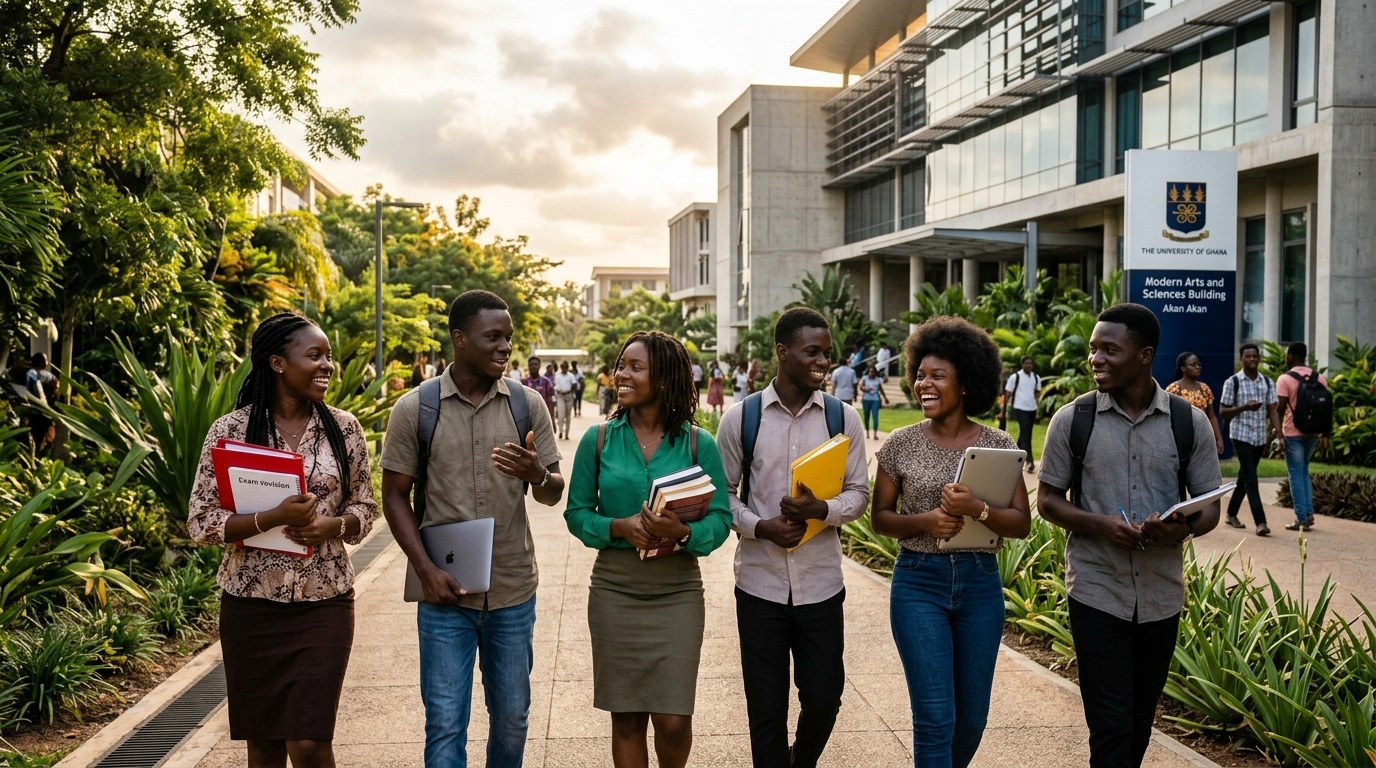
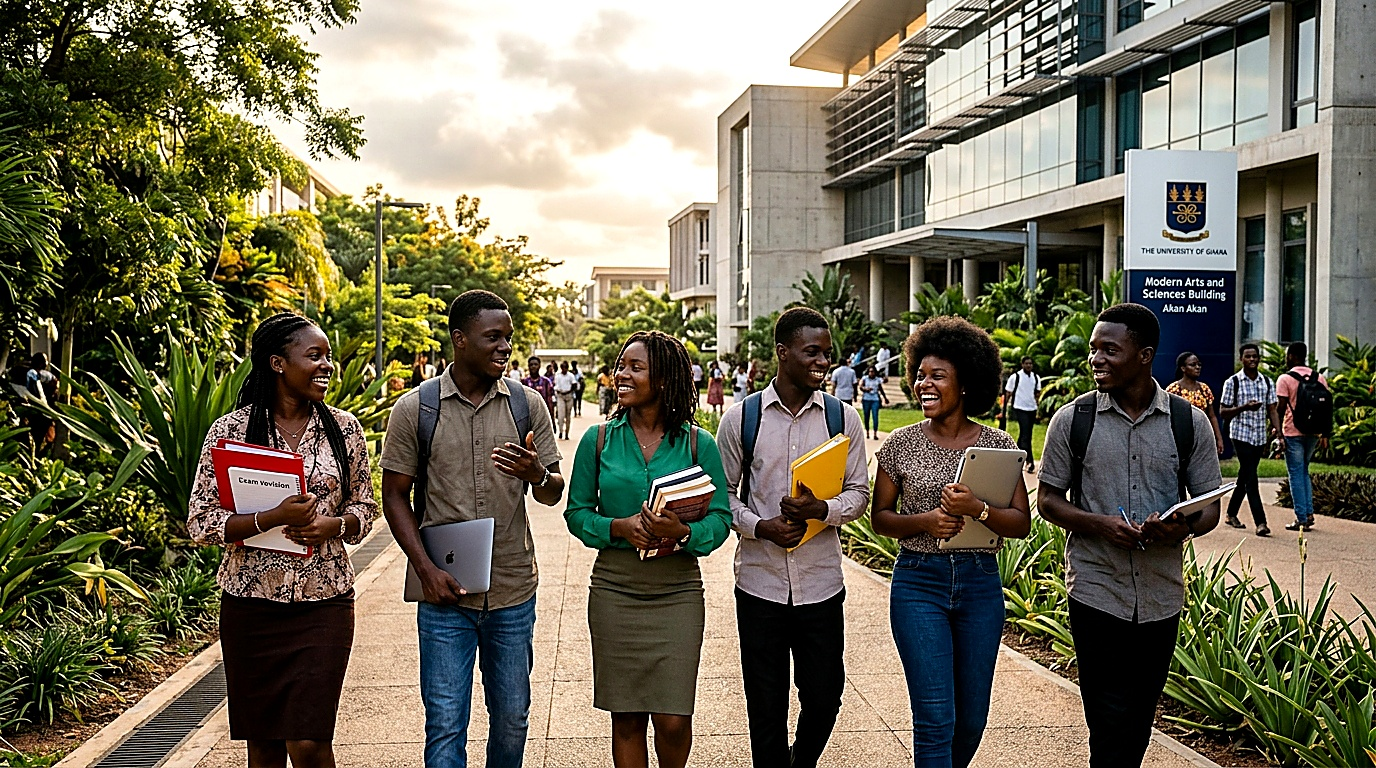
fix(ui): clarte et nettete de l image d arriere plan, contrastes eleves et couleurs vives sur le hero

Changed region(s): [[0.0, 0.0, 1.0, 1.0], [0.5938, 0.0, 0.625, 0.0312], [0.5625, 0.0625, 0.5938, 0.0938]]

diff --git a/ArchivEx/templates/academics/home.html b/ArchivEx/templates/academics/home.html
@@ -72,224 +72,114 @@ document.addEventListener('DOMContentLoaded', function() {
         <!-- LEFT COLUMN: EDITORIAL CONTENT & ACTIONS -->
         <div class="lg:col-span-6 text-center lg:text-left">
             <!-- Top Badge Pill -->
-            <div class="inline-flex items-center space-x-2.5 px-4 py-1.5 rounded-full bg-blue-500/20 border border-blue-400/40 text-blue-200 text-xs font-black mb-5 backdrop-blur-md shadow-inner">
-                <span class="w-2 h-2 rounded-full bg-cyan-400 shadow-[0_0_8px_#22d3ee] animate-pulse"></span>
-                <span>ArchivEx{% if current_school %} · {{ current_school.name }}{% else %} · Plateforme Académique des Épreuves{% endif %}</span>
+            <div class="inline-flex items-center space-x-2.5 px-4 py-1.5 rounded-full bg-blue-600/30 border border-blue-400/50 text-cyan-200 text-xs font-black mb-5 backdrop-blur-md shadow-md">
+                <span class="w-2.5 h-2.5 rounded-full bg-cyan-400 shadow-[0_0_10px_#22d3ee] animate-pulse"></span>
+                <span>ArchivEx{% if current_school %} · {{ current_school.name }}{% else %} · Banque Nationale d'Épreuves & Examens{% endif %}</span>
             </div>
 
-            <!-- Main Heading (Style univservices.bj) -->
-            <h1 class="text-3xl sm:text-5xl lg:text-6xl font-black tracking-tight text-white mb-4 leading-[1.05] drop-shadow-md">
+            <!-- Main Heading (Ultra-Sharp, Vivid Accent) -->
+            <h1 class="text-3xl sm:text-5xl lg:text-6xl font-black tracking-tight text-white mb-4 leading-[1.05] drop-shadow-[0_4px_16px_rgba(0,0,0,0.7)]">
                 Toutes vos épreuves,<br>
-                <span class="text-transparent bg-clip-text bg-gradient-to-r from-blue-300 via-sky-200 to-indigo-200">une seule plateforme.</span>
+                <span class="text-[#38BDF8] drop-shadow-[0_4px_25px_rgba(56,189,248,0.6)]">une seule plateforme.</span>
             </h1>
 
-            <!-- Subtitle -->
-            <p class="max-w-xl mx-auto lg:mx-0 text-sm sm:text-base text-slate-200 mb-6 leading-relaxed font-semibold drop-shadow-sm">
+            <!-- Subtitle (Pure High-Contrast White) -->
+            <p class="max-w-xl mx-auto lg:mx-0 text-sm sm:text-base text-white font-semibold mb-7 leading-relaxed drop-shadow-[0_2px_8px_rgba(0,0,0,0.8)]">
                 Centralisez vos anciennes épreuves, corrigés détaillés et fiches de synthèse pour réussir sereinement chaque semestre dans vos universités et grandes écoles.
             </p>
 
-            <!-- MOBILE LAPTOP MOCKUP (Visible only on mobile/tablet) -->
-            <div class="flex lg:hidden justify-center mb-8">
-                <div class="relative w-full max-w-[560px] mx-auto pt-2 pb-2">
-                    <div class="relative mx-auto border-[8px] border-[#1E293B] rounded-t-2xl bg-[#1E293B] shadow-2xl overflow-hidden max-w-[500px]">
-                        <div class="bg-slate-50 text-slate-800 text-[11px] aspect-[16/10] overflow-hidden flex flex-col select-none">
-                            <!-- Screen Top Navbar -->
-                            <div class="bg-white border-b border-slate-200 px-3 py-1.5 flex items-center justify-between shrink-0">
-                                <div class="flex items-center space-x-2">
-                                    <div class="w-5 h-5 rounded-lg bg-[#071A49] flex items-center justify-center text-[10px] text-white font-black">A</div>
-                                    <span class="font-black text-[#071A49] text-[11px]">Archiv<span class="text-[#2563EB]">Ex</span></span>
-                                </div>
-                                <div class="bg-slate-100 rounded-lg px-2 py-0.5 flex items-center space-x-1.5 text-[9px] text-slate-600 font-medium w-44">
-                                    <i class="fa-solid fa-magnifying-glass text-[8px] text-slate-400"></i>
-                                    <span class="truncate">Rechercher une épreuve...</span>
-                                </div>
-                                <div class="flex items-center space-x-1.5">
-                                    <div class="w-5 h-5 rounded-full bg-blue-100 text-[#2563EB] flex items-center justify-center text-[9px] font-black">É</div>
-                                </div>
-                            </div>
-
-                            <!-- Screen Body -->
-                            <div class="flex-grow flex overflow-hidden">
-                                <!-- Sidebar -->
-                                <div class="w-28 bg-white border-r border-slate-200 p-2 space-y-1 shrink-0 text-[9px]">
-                                    <div class="bg-blue-50 text-[#2563EB] font-black p-1.5 rounded-lg flex items-center space-x-1.5">
-                                        <i class="fa-solid fa-house text-[9px]"></i>
-                                        <span class="truncate">Accueil</span>
-                                    </div>
-                                    <div class="text-slate-700 font-bold p-1.5 rounded-lg flex items-center space-x-1.5">
-                                        <i class="fa-solid fa-book-open text-[9px] text-slate-400"></i>
-                                        <span class="truncate">Matières</span>
-                                    </div>
-                                    <div class="text-slate-700 font-bold p-1.5 rounded-lg flex items-center space-x-1.5">
-                                        <i class="fa-solid fa-id-card text-[9px] text-slate-400"></i>
-                                        <span class="truncate">Pass</span>
-                                    </div>
-                                </div>
-
-                                <!-- Main Content -->
-                                <div class="flex-grow p-2.5 bg-slate-50 overflow-hidden">
-                                    <div class="mb-2">
-                                        <h4 class="font-black text-[#071A49] text-xs leading-tight">Espace étudiant</h4>
-                                        <p class="text-[9px] text-slate-600 font-semibold">Toutes vos épreuves classées.</p>
-                                    </div>
-
-                                    <!-- Mini Stat Cards -->
-                                    <div class="grid grid-cols-3 gap-1.5 mb-2">
-                                        <div class="bg-white p-1.5 rounded-lg border border-slate-200 shadow-2xs flex items-center space-x-1.5">
-                                            <div class="w-5 h-5 rounded bg-blue-100 text-[#2563EB] flex items-center justify-center font-black text-[9px]">EP</div>
-                                            <div>
-                                                <span class="font-black text-xs text-[#071A49] block leading-none">{{ exams_count|default:"0" }}</span>
-                                                <span class="text-[7px] text-slate-600 font-bold block">Épreuves</span>
-                                            </div>
-                                        </div>
-                                        <div class="bg-white p-1.5 rounded-lg border border-slate-200 shadow-2xs flex items-center space-x-1.5">
-                                            <div class="w-5 h-5 rounded bg-amber-100 text-amber-800 flex items-center justify-center font-black text-[9px]">UE</div>
-                                            <div>
-                                                <span class="font-black text-xs text-[#071A49] block leading-none">{{ subjects_count|default:"0" }}</span>
-                                                <span class="text-[7px] text-slate-600 font-bold block">Matières</span>
-                                            </div>
-                                        </div>
-                                        <div class="bg-white p-1.5 rounded-lg border border-slate-200 shadow-2xs flex items-center space-x-1.5">
-                                            <div class="w-5 h-5 rounded bg-emerald-100 text-emerald-800 flex items-center justify-center font-black text-[9px]">OK</div>
-                                            <div>
-                                                <span class="font-black text-xs text-emerald-800 block leading-none">100%</span>
-                                                <span class="text-[7px] text-slate-600 font-bold block">Conforme</span>
-                                            </div>
-                                        </div>
-                                    </div>
-
-                                    <!-- Cards row -->
-                                    <div class="grid grid-cols-3 gap-1.5">
-                                        <div class="bg-white p-2 rounded-lg border border-slate-200 shadow-2xs space-y-1">
-                                            <div class="flex items-center justify-between">
-                                                <i class="fa-solid fa-file-lines text-slate-500 text-[9px]"></i>
-                                                <span class="text-[7px] font-black bg-amber-500 text-white px-1.5 py-0.2 rounded">Premium</span>
-                                            </div>
-                                            <p class="font-black text-[#071A49] text-[9px] leading-tight truncate">Base de données</p>
-                                            <p class="text-[7px] text-slate-600 font-semibold">Licence • S4</p>
-                                        </div>
-
-                                        <div class="bg-white p-2 rounded-lg border border-slate-200 shadow-2xs space-y-1">
-                                            <div class="flex items-center justify-between">
-                                                <i class="fa-solid fa-file-lines text-slate-500 text-[9px]"></i>
-                                                <span class="text-[7px] font-black bg-emerald-600 text-white px-1.5 py-0.2 rounded">Gratuit</span>
-                                            </div>
-                                            <p class="font-black text-[#071A49] text-[9px] leading-tight truncate">Algorithmique</p>
-                                            <p class="text-[7px] text-slate-600 font-semibold">Licence • S3</p>
-                                        </div>
-
-                                        <div class="bg-white p-2 rounded-lg border border-slate-200 shadow-2xs space-y-1">
-                                            <div class="flex items-center justify-between">
-                                                <i class="fa-solid fa-book-open text-slate-500 text-[9px]"></i>
-                                                <span class="text-[7px] font-black bg-blue-600 text-white px-1.5 py-0.2 rounded">Résumé</span>
-                                            </div>
-                                            <p class="font-black text-[#071A49] text-[9px] leading-tight truncate">Réseaux</p>
-                                            <p class="text-[7px] text-slate-600 font-semibold">Licence • S5</p>
-                                        </div>
-                                    </div>
-                                </div>
-                            </div>
-                        </div>
-                    </div>
-                    <!-- Laptop Base -->
-                    <div class="w-full max-w-[520px] h-3.5 bg-gradient-to-b from-[#334155] to-[#0F172A] rounded-b-xl mx-auto shadow-lg relative -mt-0.5 border-t border-slate-600/40">
-                        <div class="w-16 h-1 bg-slate-400/50 rounded-full mx-auto -mt-0.5"></div>
-                    </div>
-                </div>
-            </div>
-
-            <!-- QUICK SEARCH FORM HERO CARD (GLASSMORPHISM STYLE) -->
+            <!-- QUICK SEARCH FORM HERO CARD (HIGH CONTRAST & READABLE) -->
             <form action="{% url 'academics:global_search' %}" method="get" class="mb-7 max-w-xl mx-auto lg:mx-0">
-                <div class="relative flex items-center bg-white/10 hover:bg-white/15 focus-within:bg-white/20 border border-white/25 focus-within:border-blue-400 rounded-2xl p-1.5 backdrop-blur-xl shadow-2xl transition-all">
-                    <div class="pl-3.5 pr-2 text-blue-200">
+                <div class="relative flex items-center bg-white border-2 border-white focus-within:border-[#38BDF8] rounded-2xl p-1.5 shadow-[0_15px_35px_rgba(0,0,0,0.45)] transition-all">
+                    <div class="pl-3.5 pr-2 text-slate-500">
                         <i class="fa-solid fa-magnifying-glass text-base"></i>
                     </div>
-                    <input type="text" name="q" placeholder="Rechercher une épreuve, une matière, un sujet..." class="w-full bg-transparent border-0 focus:ring-0 text-xs sm:text-sm font-bold text-white placeholder-slate-300 py-2.5 px-1 focus:outline-none" required>
-                    <button type="submit" class="bg-gradient-to-r from-[#2563EB] to-blue-600 hover:from-blue-600 hover:to-blue-700 text-white font-black text-xs sm:text-sm px-5 py-2.5 rounded-xl transition-all shrink-0 flex items-center space-x-1.5 shadow-lg shadow-blue-600/40 active:scale-95">
+                    <input type="text" name="q" placeholder="Rechercher une épreuve, une matière, un sujet..." class="w-full bg-transparent border-0 focus:ring-0 text-xs sm:text-sm font-bold text-slate-900 placeholder-slate-400 py-2.5 px-1 focus:outline-none" required>
+                    <button type="submit" class="bg-[#2563EB] hover:bg-blue-700 text-white font-black text-xs sm:text-sm px-6 py-2.5 rounded-xl transition-all shrink-0 flex items-center space-x-1.5 shadow-md shadow-blue-500/40 active:scale-95">
                         <span>Rechercher</span>
                         <i class="fa-solid fa-arrow-right text-xs"></i>
                     </button>
                 </div>
             </form>
 
-            <!-- 3 Mini Feature Cards (Clean, Glassmorphism, High Contrast) -->
+            <!-- 3 Mini Feature Cards (Pure White, Ultra-Crisp, High Contrast) -->
             <div class="grid grid-cols-1 sm:grid-cols-3 gap-3 mb-8 max-w-xl mx-auto lg:mx-0 text-left">
                 <!-- Card 1: Épreuves -->
-                <div class="bg-white/10 hover:bg-white/15 border border-white/15 rounded-2xl p-3.5 flex items-center space-x-3 shadow-xs backdrop-blur-md transition-colors">
-                    <div class="w-10 h-10 rounded-xl bg-blue-500/30 border border-blue-400/40 text-blue-200 flex items-center justify-center shrink-0 text-lg font-black">
+                <div class="bg-white hover:bg-slate-50 rounded-2xl p-3.5 flex items-center space-x-3 shadow-lg shadow-black/25 border border-white transition-transform hover:-translate-y-0.5">
+                    <div class="w-10 h-10 rounded-xl bg-blue-600 text-white flex items-center justify-center shrink-0 text-base font-black shadow-md shadow-blue-600/30">
                         <i class="fa-solid fa-book-open"></i>
                     </div>
                     <div>
-                        <h4 class="text-xs font-black text-white leading-snug">Épreuves</h4>
-                        <p class="text-[11px] text-blue-200 font-bold">Sessions passées</p>
+                        <h4 class="text-xs font-black text-[#071A49] leading-snug">Épreuves</h4>
+                        <p class="text-[11px] text-slate-600 font-bold">Sessions passées</p>
                     </div>
                 </div>
 
                 <!-- Card 2: Corrigés -->
-                <div class="bg-white/10 hover:bg-white/15 border border-white/15 rounded-2xl p-3.5 flex items-center space-x-3 shadow-xs backdrop-blur-md transition-colors">
-                    <div class="w-10 h-10 rounded-xl bg-emerald-500/30 border border-emerald-400/40 text-emerald-200 flex items-center justify-center shrink-0 text-lg font-black">
+                <div class="bg-white hover:bg-slate-50 rounded-2xl p-3.5 flex items-center space-x-3 shadow-lg shadow-black/25 border border-white transition-transform hover:-translate-y-0.5">
+                    <div class="w-10 h-10 rounded-xl bg-emerald-600 text-white flex items-center justify-center shrink-0 text-base font-black shadow-md shadow-emerald-600/30">
                         <i class="fa-solid fa-file-circle-check"></i>
                     </div>
                     <div>
-                        <h4 class="text-xs font-black text-white leading-snug">Corrigés</h4>
-                        <p class="text-[11px] text-emerald-200 font-bold">Détaillés pas à pas</p>
+                        <h4 class="text-xs font-black text-[#064E3B] leading-snug">Corrigés</h4>
+                        <p class="text-[11px] text-slate-600 font-bold">Détaillés pas à pas</p>
                     </div>
                 </div>
 
                 <!-- Card 3: Résumés -->
-                <div class="bg-white/10 hover:bg-white/15 border border-white/15 rounded-2xl p-3.5 flex items-center space-x-3 shadow-xs backdrop-blur-md transition-colors">
-                    <div class="w-10 h-10 rounded-xl bg-purple-500/30 border border-purple-400/40 text-purple-200 flex items-center justify-center shrink-0 text-lg font-black">
+                <div class="bg-white hover:bg-slate-50 rounded-2xl p-3.5 flex items-center space-x-3 shadow-lg shadow-black/25 border border-white transition-transform hover:-translate-y-0.5">
+                    <div class="w-10 h-10 rounded-xl bg-purple-600 text-white flex items-center justify-center shrink-0 text-base font-black shadow-md shadow-purple-600/30">
                         <i class="fa-solid fa-file-lines"></i>
                     </div>
                     <div>
-                        <h4 class="text-xs font-black text-white leading-snug">Résumés</h4>
-                        <p class="text-[11px] text-purple-200 font-bold">Fiches de révision</p>
+                        <h4 class="text-xs font-black text-[#4C1D95] leading-snug">Résumés</h4>
+                        <p class="text-[11px] text-slate-600 font-bold">Fiches de révision</p>
                     </div>
                 </div>
             </div>
 
-            <!-- Action Buttons -->
+            <!-- Action Buttons (Punchy, High Contrast, univservices.bj inspired) -->
             <div class="flex flex-col sm:flex-row flex-wrap items-center justify-center lg:justify-start gap-3.5">
                 {% if user.is_authenticated and user.is_staff or user.is_authenticated and user.is_superuser or user.is_authenticated and user.contributor_profile %}
                     <a href="{% url 'contributors:admin_dashboard' %}" class="w-full sm:w-auto bg-amber-500 hover:bg-amber-600 text-slate-950 font-black text-sm px-7 py-3.5 rounded-2xl shadow-lg shadow-amber-500/25 flex items-center justify-center space-x-2.5 transition-colors">
                         <i class="fa-solid fa-user-shield"></i>
                         <span>Espace d'administration</span>
                     </a>
-                    <a href="{% url 'accounts:dashboard' %}" class="w-full sm:w-auto bg-gradient-to-r from-[#2563EB] to-indigo-600 hover:brightness-110 text-white font-black text-sm px-7 py-3.5 rounded-2xl shadow-xl shadow-blue-600/30 border border-blue-400/40 flex items-center justify-center space-x-2.5 transition-all">
-                        <i class="fa-solid fa-gauge-high text-amber-300 text-base"></i>
+                    <a href="{% url 'accounts:dashboard' %}" class="w-full sm:w-auto bg-[#FFFFFF] hover:bg-slate-100 text-[#071A49] font-black text-sm px-7 py-3.5 rounded-2xl shadow-xl shadow-black/30 flex items-center justify-center space-x-2.5 transition-all">
+                        <i class="fa-solid fa-gauge-high text-blue-600 text-base"></i>
                         <span>Mon tableau de bord</span>
-                        <i class="fa-solid fa-arrow-right text-xs text-blue-200"></i>
+                        <i class="fa-solid fa-arrow-right text-xs text-blue-600"></i>
                     </a>
                 {% elif user.is_authenticated %}
-                    <a href="{% url 'accounts:dashboard' %}" class="w-full sm:w-auto bg-gradient-to-r from-[#2563EB] to-indigo-600 hover:brightness-110 text-white font-black text-sm px-7 py-3.5 rounded-2xl shadow-xl shadow-blue-600/30 border border-blue-400/40 flex items-center justify-center space-x-2.5 transition-all">
-                        <i class="fa-solid fa-gauge-high text-amber-300 text-base"></i>
+                    <a href="{% url 'accounts:dashboard' %}" class="w-full sm:w-auto bg-[#FFFFFF] hover:bg-slate-100 text-[#071A49] font-black text-sm px-7 py-3.5 rounded-2xl shadow-xl shadow-black/30 flex items-center justify-center space-x-2.5 transition-all">
+                        <i class="fa-solid fa-gauge-high text-blue-600 text-base"></i>
                         <span>Mon tableau de bord</span>
-                        <i class="fa-solid fa-arrow-right text-xs text-blue-200"></i>
+                        <i class="fa-solid fa-arrow-right text-xs text-blue-600"></i>
                     </a>
-                    <a href="{% url 'academics:filieres' %}" class="w-full sm:w-auto bg-white/15 hover:bg-white/25 text-white border border-white/30 font-black text-sm px-7 py-3.5 rounded-2xl shadow-lg backdrop-blur-md flex items-center justify-center space-x-2.5 transition-colors">
+                    <a href="{% url 'academics:filieres' %}" class="w-full sm:w-auto bg-[#2563EB] hover:bg-blue-700 text-white font-black text-sm px-7 py-3.5 rounded-2xl shadow-lg shadow-blue-500/40 flex items-center justify-center space-x-2.5 transition-colors">
                         <i class="fa-solid fa-graduation-cap"></i>
                         <span>Explorer les matières</span>
                     </a>
-                    <a href="{% url 'academics:about' %}" class="w-full sm:w-auto bg-white/10 hover:bg-white/20 text-white border border-white/20 font-black text-sm px-6 py-3.5 rounded-2xl shadow-xs backdrop-blur-md flex items-center justify-center space-x-2.5 transition-colors">
-                        <div class="w-5 h-5 rounded-full border border-white/40 flex items-center justify-center text-[10px]">
+                    <a href="{% url 'academics:about' %}" class="w-full sm:w-auto bg-white/20 hover:bg-white/30 text-white border border-white/40 font-black text-sm px-6 py-3.5 rounded-2xl shadow-xs backdrop-blur-md flex items-center justify-center space-x-2.5 transition-colors">
+                        <div class="w-5 h-5 rounded-full border border-white/60 flex items-center justify-center text-[10px]">
                             <i class="fa-solid fa-play text-[8px] text-white ml-0.5"></i>
                         </div>
                         <span>Découvrir la plateforme</span>
                     </a>
                 {% else %}
                     <!-- BOUTONS DIRECTS POUR VISITEUR : S'INSCRIRE OU SE CONNECTER -->
-                    <a href="{% url 'accounts:register' %}" class="w-full sm:w-auto bg-gradient-to-r from-[#2563EB] to-indigo-600 hover:from-blue-600 hover:to-indigo-500 text-white font-black text-sm px-7 py-3.5 rounded-2xl shadow-xl shadow-blue-600/40 border border-blue-300/30 flex items-center justify-center space-x-2.5 transition-all hover:scale-105 active:scale-95">
-                        <i class="fa-solid fa-user-plus text-base"></i>
+                    <a href="{% url 'accounts:register' %}" class="w-full sm:w-auto bg-white hover:bg-slate-100 text-[#071A49] font-black text-sm sm:text-base px-8 py-3.5 rounded-2xl shadow-[0_12px_30px_rgba(0,0,0,0.35)] flex items-center justify-center space-x-2.5 transition-all hover:scale-105 active:scale-95">
+                        <i class="fa-solid fa-user-plus text-blue-600 text-base"></i>
                         <span>S'inscrire gratuitement</span>
                     </a>
 
-                    <a href="{% url 'accounts:login' %}" class="w-full sm:w-auto bg-white/15 hover:bg-white/25 text-white border border-white/30 hover:border-white/50 font-black text-sm px-6 py-3.5 rounded-2xl shadow-lg backdrop-blur-md flex items-center justify-center space-x-2.5 transition-all">
+                    <a href="{% url 'accounts:login' %}" class="w-full sm:w-auto bg-[#2563EB] hover:bg-blue-700 text-white font-black text-sm sm:text-base px-7 py-3.5 rounded-2xl shadow-[0_12px_25px_rgba(37,99,235,0.4)] border border-blue-300/40 flex items-center justify-center space-x-2.5 transition-all hover:scale-105 active:scale-95">
                         <i class="fa-solid fa-arrow-right-to-bracket text-cyan-300"></i>
                         <span>Se connecter</span>
                     </a>
 
-                    <a href="{% url 'exams:free_liste' %}" class="w-full sm:w-auto bg-emerald-500/20 hover:bg-emerald-500/30 border border-emerald-400/40 text-emerald-200 font-bold text-xs sm:text-sm px-5 py-3.5 rounded-2xl flex items-center justify-center space-x-2 backdrop-blur-md transition-colors">
-                        <i class="fa-solid fa-book-open text-emerald-300"></i>
+                    <a href="{% url 'exams:free_liste' %}" class="w-full sm:w-auto bg-emerald-600 hover:bg-emerald-700 text-white font-black text-xs sm:text-sm px-6 py-3.5 rounded-2xl flex items-center justify-center space-x-2 shadow-lg shadow-emerald-900/30 transition-all hover:scale-105 active:scale-95">
+                        <i class="fa-solid fa-book-open text-emerald-200"></i>
                         <span>Épreuves gratuites</span>
                     </a>
                 {% endif %}

diff --git a/ArchivEx/static/css/style.css b/ArchivEx/static/css/style.css
@@ -922,7 +922,7 @@ html, body, button, input, select, textarea {
         transform: scale(1) translate(0, 0);
     }
     100% {
-        transform: scale(1.08) translate(-1.5%, -1%);
+        transform: scale(1.05) translate(-1%, -0.5%);
     }
 }
 
@@ -945,24 +945,26 @@ html, body, button, input, select, textarea {
     position: absolute;
     inset: 0;
     background-size: cover;
-    background-position: center 30%;
-    animation: univKenburns 24s ease-in-out infinite alternate;
+    background-position: center 28%;
+    animation: univKenburns 28s ease-in-out infinite alternate;
     pointer-events: none;
     will-change: transform;
+    image-rendering: -webkit-optimize-contrast;
+    filter: brightness(1.04) contrast(1.06);
 }
 
 .univ-hero-voile {
     position: absolute;
     inset: 0;
     pointer-events: none;
-    background: linear-gradient(90deg, rgba(7, 26, 73, 0.94) 0%, rgba(7, 26, 73, 0.72) 48%, rgba(7, 26, 73, 0.35) 100%),
-                linear-gradient(0deg, rgba(7, 26, 73, 0.98) 0%, rgba(7, 26, 73, 0.65) 50%, rgba(7, 26, 73, 0.25) 100%);
+    background: linear-gradient(90deg, rgba(7, 26, 73, 0.84) 0%, rgba(7, 26, 73, 0.45) 45%, rgba(7, 26, 73, 0.05) 100%),
+                linear-gradient(0deg, rgba(7, 26, 73, 0.90) 0%, rgba(7, 26, 73, 0.35) 55%, rgba(7, 26, 73, 0) 100%);
 }
 
 @media (max-width: 768px) {
     .univ-hero-voile {
-        background: linear-gradient(90deg, rgba(7, 26, 73, 0.96) 0%, rgba(7, 26, 73, 0.78) 50%, rgba(7, 26, 73, 0.45) 100%),
-                    linear-gradient(0deg, rgba(7, 26, 73, 0.99) 0%, rgba(7, 26, 73, 0.85) 45%, rgba(7, 26, 73, 0.5) 100%) !important;
+        background: linear-gradient(90deg, rgba(7, 26, 73, 0.88) 0%, rgba(7, 26, 73, 0.60) 50%, rgba(7, 26, 73, 0.20) 100%),
+                    linear-gradient(0deg, rgba(7, 26, 73, 0.94) 0%, rgba(7, 26, 73, 0.55) 50%, rgba(7, 26, 73, 0.10) 100%) !important;
     }
 }
 
